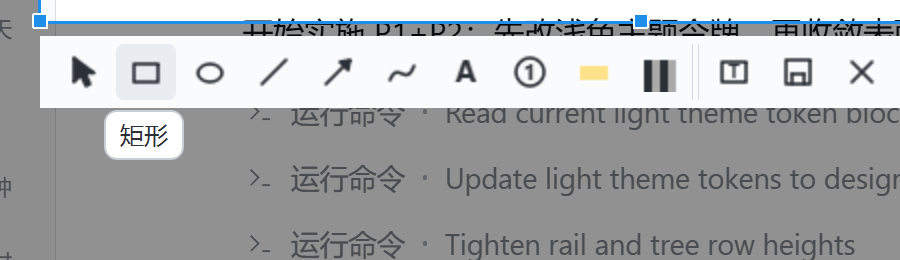
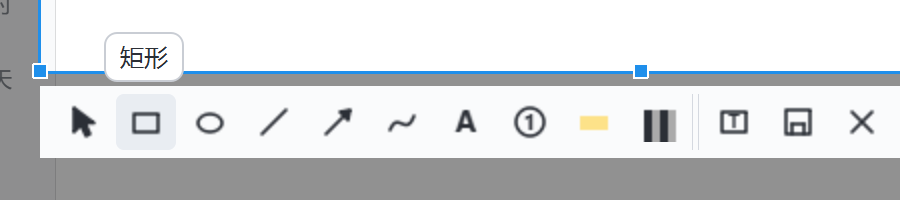
fix(overlay): 工具提示改为显示在按钮上方
放下方会与鼠标指针重叠；改为固定显示在按钮上方居中，
仅当上方空间不足（工具条贴近屏幕顶部）时退回下方。

验证：悬停矩形按钮，气泡显示在工具条上方（docs/assets/phase1-toolbar-tooltip.png）

diff --git a/src/overlay/ToolbarTooltip.cpp b/src/overlay/ToolbarTooltip.cpp
@@ -58,19 +58,17 @@ void ToolbarTooltip::showFor(QWidget* anchor, const QString& text)
     const int textHeight = metrics.height();
     resize(textWidth + kPaddingX * 2, textHeight + kPaddingY * 2);
 
-    // 默认放在锚点下方居中；下方空间不足则放上方。
+    // 提示固定显示在按钮【上方】居中：放下方会与鼠标指针重叠。
+    // 只有上方空间不足（例如工具条贴到屏幕顶部）才退回到下方。
     const QRect anchorRect(anchor->mapToGlobal(QPoint(0, 0)), anchor->size());
     QScreen* screen = anchor->screen() != nullptr ? anchor->screen() : QGuiApplication::primaryScreen();
     const QRect available = screen != nullptr ? screen->availableGeometry()
                                               : QRect(anchorRect.topLeft(), QSize(1920, 1080));
 
     int x = anchorRect.center().x() - width() / 2;
-    int y = anchorRect.bottom() + 6;
-    if (y + height() > available.bottom()) {
-        y = anchorRect.top() - height() - 6;
-    }
+    int y = anchorRect.top() - height() - 6;  // 优先上方
     if (y < available.top()) {
-        y = anchorRect.bottom() + 6;
+        y = anchorRect.bottom() + 6;  // 上方放不下才退到下方
     }
     if (x + width() > available.right()) {
         x = available.right() - width() - 4;
